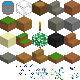
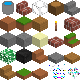
Neue Commands, /debugblocks, /clear, /time. InventoryScreens ergänzt + Tooltips hinzugefügt.

diff --git a/src/main/java/de/delautrer/game/blocks/CubeBlock.java b/src/main/java/de/delautrer/game/blocks/CubeBlock.java
@@ -99,7 +99,7 @@ public class CubeBlock extends Block {
         AtlasRegion tEast = getTextureForFace(state, BlockFace.EAST); AtlasRegion tWest = getTextureForFace(state, BlockFace.WEST);
 
         // ==========================================
-        // NEUE DYNAMISCHE TEXTUR-WEICHE
+        // DYNAMISCHE TEXTUR-WEICHE (inkl. Bit-Logik für Stairs/Slabs)
         // ==========================================
         BlockModelData model = getModel();
         boolean isDirectional = (model != null && model.directional_textures);
@@ -108,14 +108,26 @@ public class CubeBlock extends Block {
         float sideV1; // Unten auf der Textur (1.0 = Ende)
 
         if (isDirectional) {
-            // GRAS-LOGIK (Directional = true)
-            // Die Textur ist fest an den globalen Block-Koordinaten verankert.
-            // V=0.0 ist ganz oben am Block, V=1.0 ist ganz unten.
-            // Beispiel Top-Slab (maxY=1.0, minY=0.5) -> V0=0.0, V1=0.5 (Gras)
-            // Beispiel Bot-Slab (maxY=0.5, minY=0.0) -> V0=0.5, V1=1.0 (Dreck)
-            sideV0 = 1.0f - maxY;
-            sideV1 = 1.0f - minY;
+            // Gras-Logik (Directional = true)
+            if (maxY - minY > 0.99f) {
+                // Voller Block (4+4 Bits): Nutze die volle Textur
+                sideV0 = 0.0f;
+                sideV1 = 1.0f;
+            } else {
+                // Halber Block / Teil-Bit (z.B. bei Stairs oder Slabs)
+                if (rTop) {
+                    // Es gibt KEIN Teil obendrüber (es ist die Oberfläche) -> obere Hälfte der Textur (Gras)
+                    sideV0 = 0.0f;
+                    sideV1 = 0.5f;
+                } else {
+                    // Es gibt ein Teil obendrüber (es ist begraben) -> untere Hälfte der Textur (Dreck)
+                    sideV0 = 0.5f;
+                    sideV1 = 1.0f;
+                }
+            }
         } else {
+            // Standard-Verhalten für normale Blöcke (Holz, Stein, Glas etc.)
+            // Hier schneiden wir die Textur anhand der Höhe der Box ab
             sideV0 = 0.0f;
             sideV1 = maxY - minY;
         }
